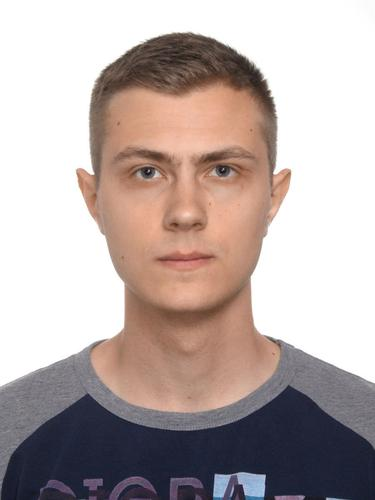
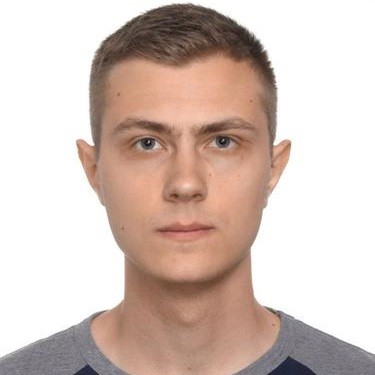
feat: add image & minor fixes

diff --git a/style.css b/style.css
@@ -3,9 +3,10 @@
 }
 
 body {
+    overflow: auto;
     max-width: 1024px;
     min-width: 600px;
-    min-height: 600px;
+    min-height: 100vh;
     margin: auto;
     display: flex;
     flex-direction: column;
@@ -21,27 +22,42 @@ body {
     min-height: 70vh;
   }
 
-  section, aside {
-    flex-basis: 33.33vw;
+  header {
+    display: flex;
+    flex-wrap:nowrap;
+    background: rgb(29, 134, 103);
+    min-height: 20vh;
+
+    
+    align-items: center;
   }
+
+  img {
+    width: 75px;
+    height: 75px;
+    border-radius: 50%;
+  }
+
+  section {
+    flex-basis: 50%;
+  }
+
+  .about {
+    background:rgb(50, 185, 145);
+  }
+
 
   .description {
     background:rgb(58, 168, 135);
   }
 
 
-  header {
-    background: rgb(29, 134, 103);
-    height: 20vh;
-
-    justify-content: space-around;
-    align-items: center;
-  }
+ 
 
   footer {
     background: rgb(29, 134, 103);
-    height: 10vh;
-
+    
+    min-height: 20vh;
     justify-content: space-around;
     align-items: center;
   }

diff --git a/index.html b/index.html
@@ -10,18 +10,34 @@
 
 <body>
         <header>
-          <h1>Nikolay Kovzik</h1>
-          <h3>Front-end developer</h3>
+          <figure class="myPhoto">
+            <img src="img/1.jpeg" alt="Nikolay Kovzik"/>
+          </figure>
+          <div class="container">
+              <h1>Nikolay Kovzik</h1>
+              <h3>Front-end developer</h3>
+          </div>
+          
         </header>
 
         <main>
           <section class="about"> </section>
           <section class="description"> </section>
-          <aside></aside>
         </main>
 
         <footer>
-
+            <br>
+            еще раз ссылки
+            ccылки
+            <br>
+            ссылки
+            <br>
+            еще раз ссылки
+            ccылки
+            <br>
+            ссылки
+            <br>
+            еще раз ссылки
         </footer>  
 </body>
 </html>
